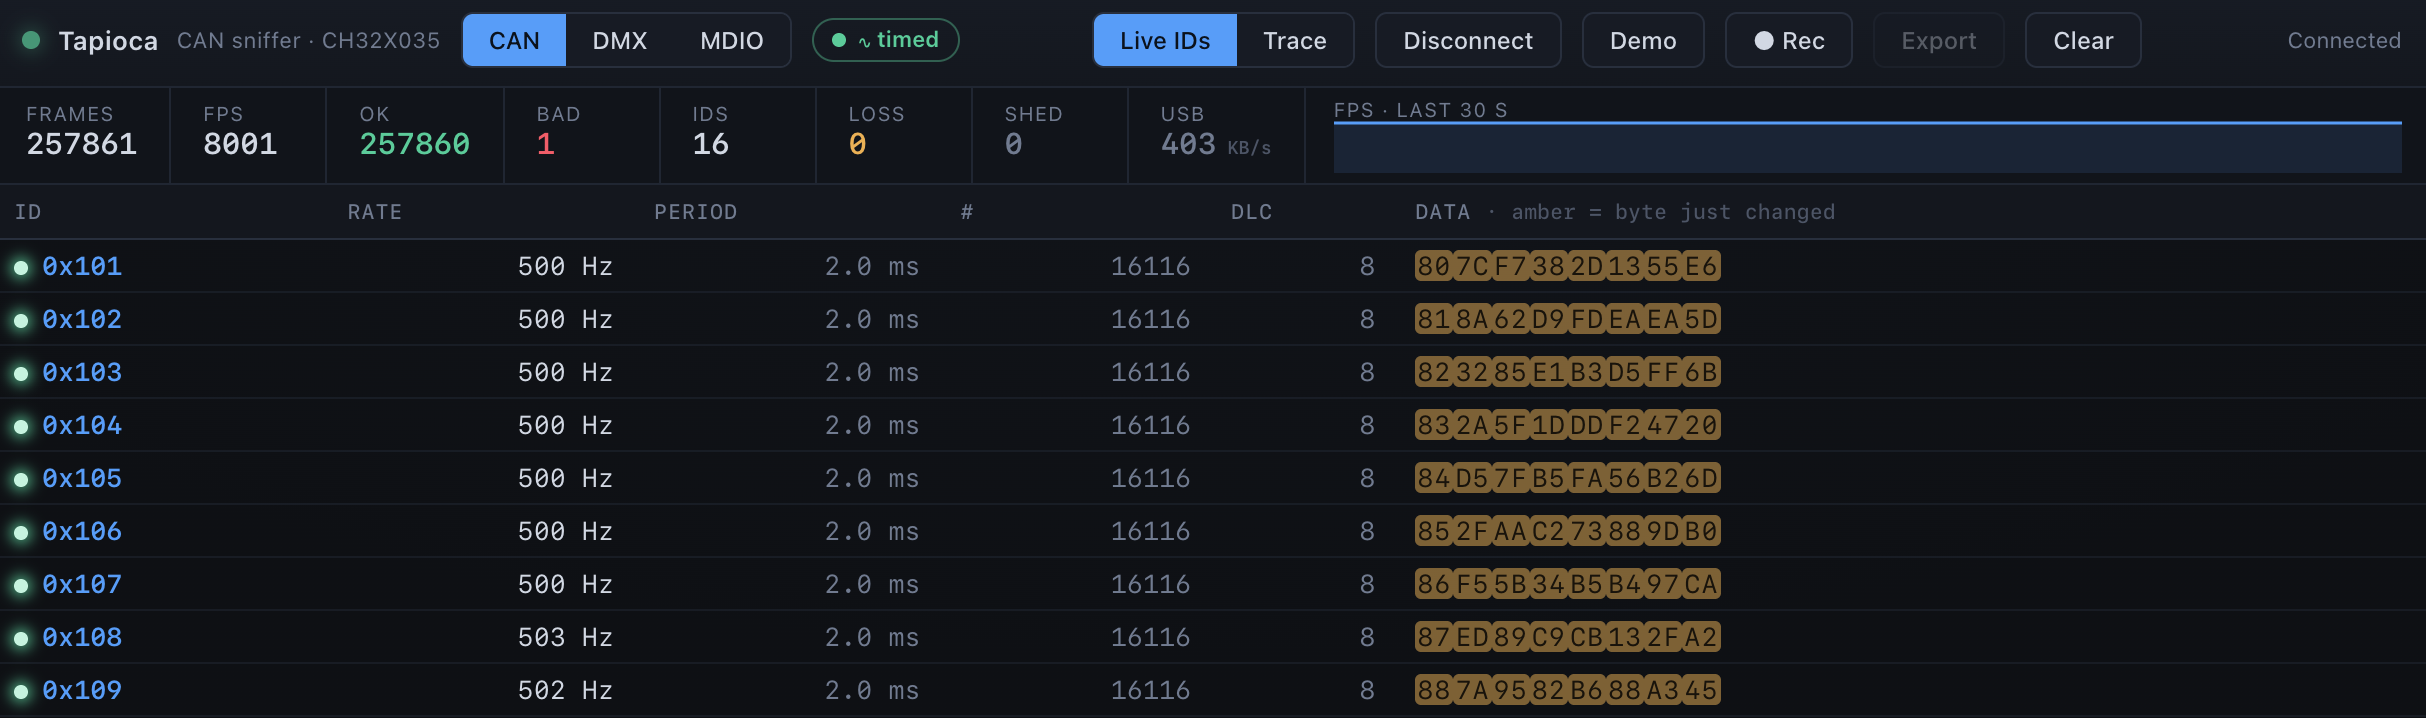
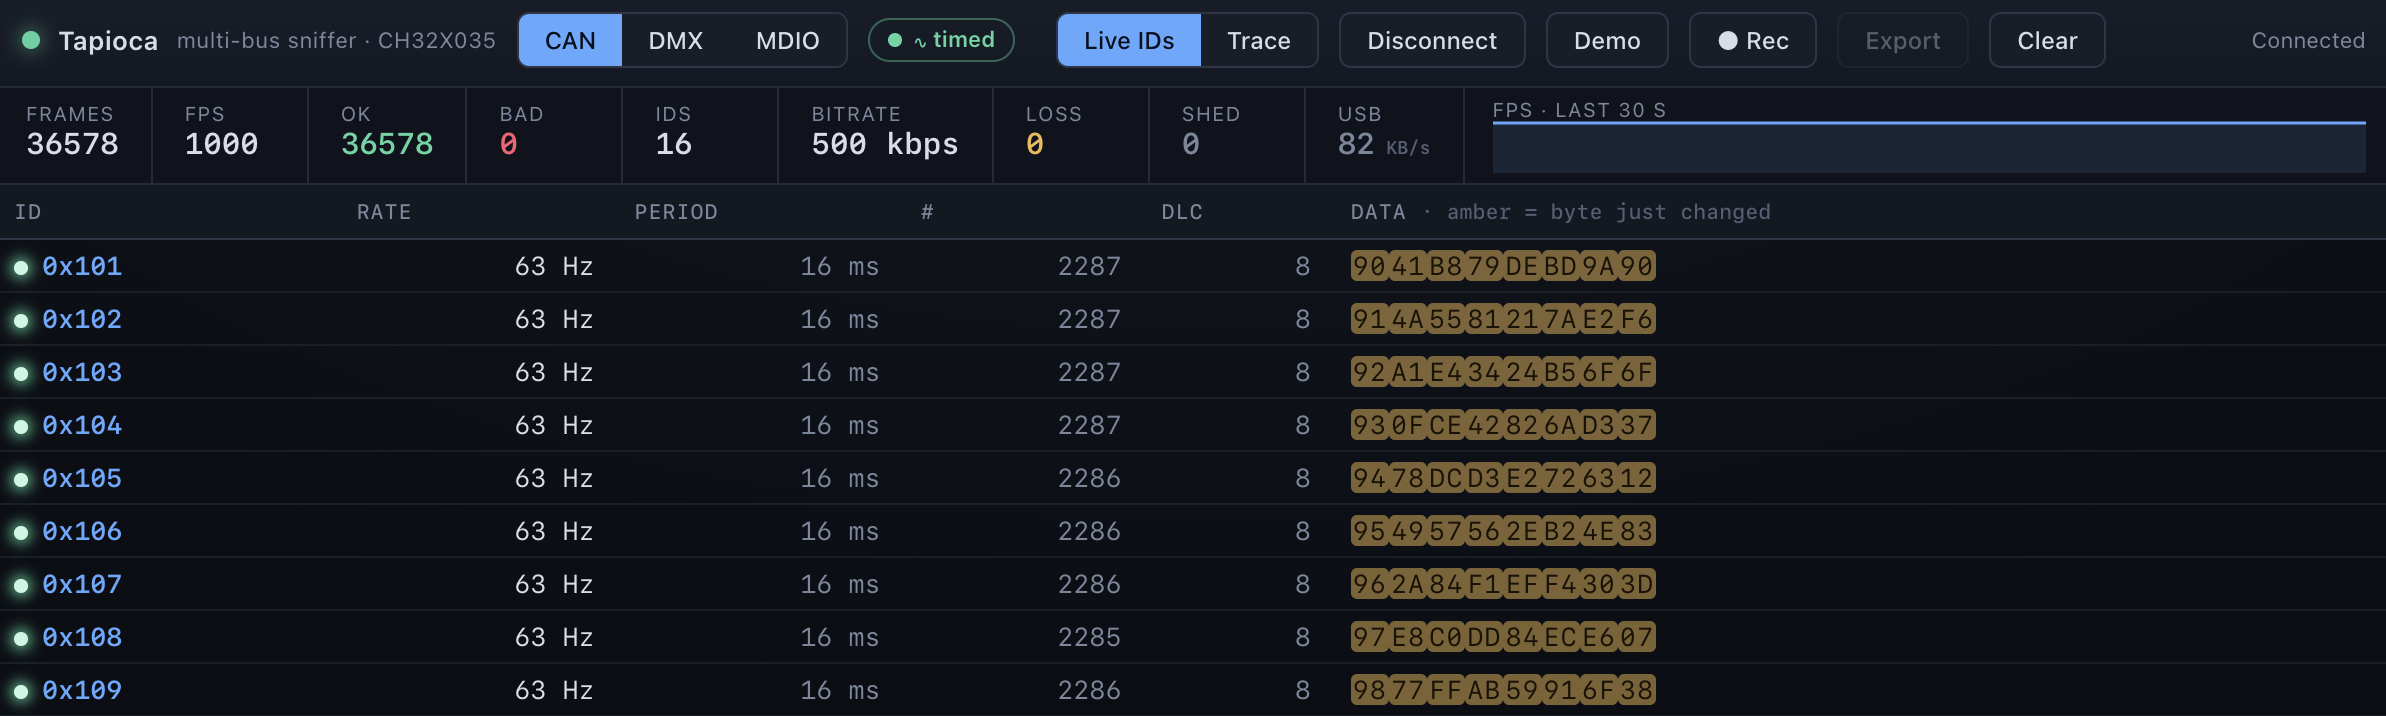
webapp/can: derive frame boundary from locked UI fit

diff --git a/app/index.html b/app/index.html
@@ -760,14 +760,22 @@ function decodeFrameRuns(counts) {       // try as-is and with leading idle-tail
   return best;
 }
 
-function frameBoundaryRuns(runs) {       // max(56, 8*min): above legal 5-bit runs
+function frameBoundaryRuns(runs) {       // COLD-START proxy: max(56, 8*min), before any UI fit
   let mn = Infinity;
   for (const r of runs) if (r > 0 && r < mn) mn = r;
   if (mn === Infinity) mn = BOUNDARY;
-  // Real 500 kbit/s captures have legal 5-bit recessive runs around 58/59 ticks
-  // while 1-bit runs bottom out near 9/10 ticks. 6*min was too close and split
-  // inside FF-heavy payloads; 8*min stays below real EOF/IFS gaps.
+  // The min run is a 1-bit pulse, but jitter makes it read a touch SHORT, so 8*min
+  // compensates that bias to land between the 5-bit max in-frame run and the EOF/IFS gap.
+  // Used only until decode locks; boundFromUI then takes over with the real bit length.
   return Math.max(BOUNDARY, 8 * mn);
+}
+
+// Frame boundary from the LOCKED per-level UI fit (cal = [uiDom, _, uiRec, _]). The split must
+// sit between the legal 5-bit max in-frame run and the >=10-bit (EOF 7 + IFS 3) inter-frame gap,
+// so 7*UI is the centre. This replaces the 8*min proxy once we have cal: the fit averages out the
+// jitter that biased min, so the boundary tracks the true bit length at any rate, no magic factor.
+function boundFromUI(cal) {
+  return Math.max(BOUNDARY, Math.round(3.5 * (cal[0] + cal[2])));   // 3.5*(uiDom+uiRec) = 7*UI_mean
 }
 
 // ============================================================================
@@ -833,7 +841,7 @@ class StreamProc {
       this.runbuf.splice(0, drop); state.shed += drop;
     }
     const work = this.runbuf.length > MAX_WORK ? this.runbuf.slice(0, MAX_WORK) : this.runbuf;
-    if (!this.bound) this.bound = frameBoundaryRuns(work);
+    if (!this.bound) this.bound = this.cal ? boundFromUI(this.cal) : frameBoundaryRuns(work);
     const budget = { n: SLOW_BUDGET };
     let cur = [], last = 0;
     for (let i = 0; i < work.length; i++) {
@@ -874,7 +882,7 @@ class StreamProc {
     budget.n--;
     let best; try { best = decodeFrameRuns(runs); } catch (e) { best = null; }
     if (!best) { this.miss++; return; }
-    if (best.frame.crcOk) { this.cal = fitBurstUI(runs.slice(best.drop)); this.miss = 0; }   // refresh cal
+    if (best.frame.crcOk) { this.cal = fitBurstUI(runs.slice(best.drop)); this.bound = boundFromUI(this.cal); this.miss = 0; }   // refresh cal + UI-based boundary
     else this.miss++;
     this.onFrame(best.frame, best.ui, best.drop);
   }
@@ -1123,7 +1131,7 @@ function fmtBaud(hist) {
   const k = median(hist) / 1000;                                  // kbit/s
   let best = CAN_STD_K[0], err = Infinity;
   for (const s of CAN_STD_K) { const e = Math.abs(k - s) / s; if (e < err) { err = e; best = s; } }
-  const fmtK = v => v >= 1000 ? '1 Mbit/s' : `${v < 100 ? v.toFixed(1).replace(/\.0$/, '') : v.toFixed(0)} kbit/s`;
+  const fmtK = v => v >= 1000 ? '1 Mbps' : `${v < 100 ? v.toFixed(1).replace(/\.0$/, '') : v.toFixed(0)} kbps`;
   if (err <= 0.08) return { label: fmtK(best), title: `≈ ${k.toFixed(1)} kbit/s → ${fmtK(best)} (Δ ${(err * 100).toFixed(1)}%)` };
   return { label: `~${k.toFixed(0)}k`, title: `≈ ${k.toFixed(1)} kbit/s — no standard rate within 8%` };
 }